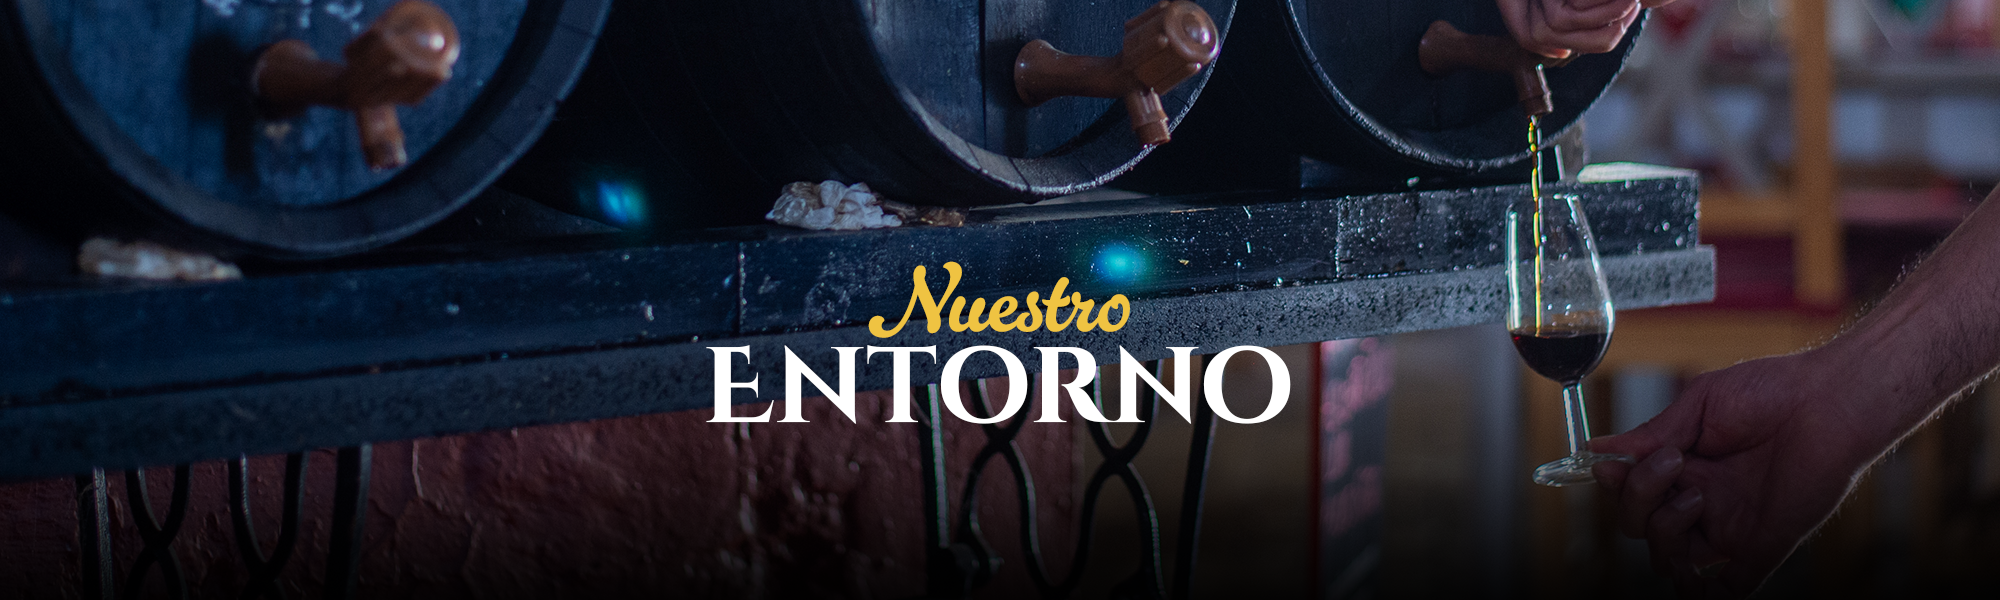
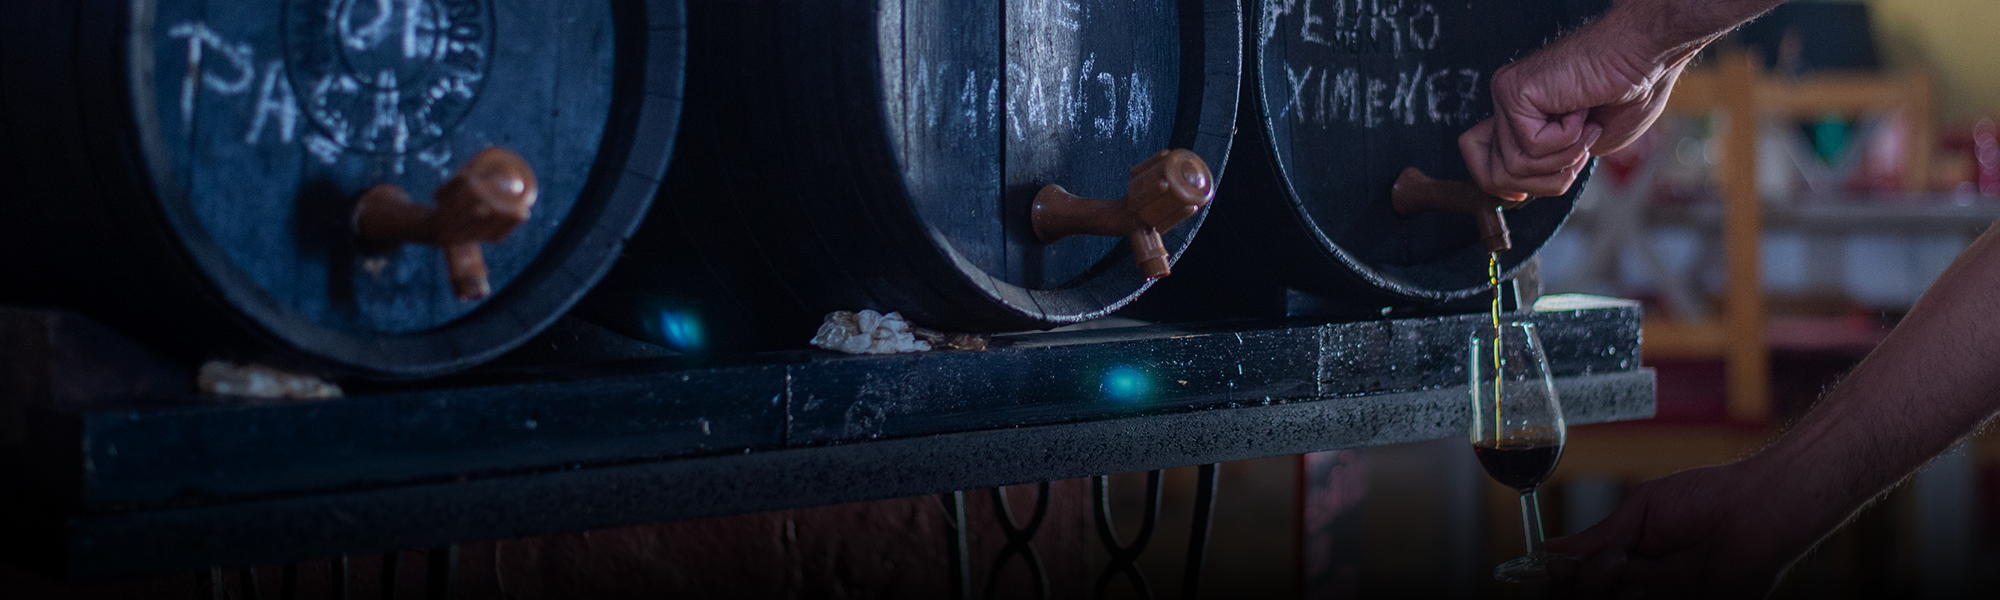
Almost fix location page

diff --git a/src/ubicacion.html b/src/ubicacion.html
@@ -16,20 +16,51 @@
 
   <!--Página Ubicación-->
   <body>
-    <main class="head3"></main>
-    <section class="location">
-      <p class="location__text">La Bodega La Sacristía es un pequeño restaurante de gran tradición culinaria localizado estratégicamente en Almensilla, uno de los pequeños pueblos señalados de la Ruta del Mosto, en la comarca del Aljarafe (Sevilla).</p>
-      <h2 class="location__title">Almensilla</h2>
-      <h2 class="location__title2">El sur del Aljarafe</h2>
-      <p class="location__text">En Almensilla vas a disfrutar de la esencia de un pueblo andaluz caracterizado por su tradición aceitunera y por sus haciendas. Comienza tu ruta por esta localidad en la Plaza de la Iglesia, donde se ubica el ayuntamiento, que destaca por su reloj con campanario de hierro. En este mismo lugar puedes visitar el templo mayor del pueblo, la iglesia de Ntra. Sra. de la Antigua, de origen mudéjar, que originalmente era el oratorio de la hacienda de San Antonio.</p>
-      <img class="location__img" src="./images/location/location01.png" alt="Iglesia de Almensilla"/>
-      <p class="location__text">Una parada en la que degustar con tranquilidad el mosto, la aceituna de mesa y, en primavera, las tapas de caracoles. Ubicada en una meseta al sur del Aljarafe, este enclave sevillano aún conserva algunas haciendas centenarias concebidas para la recolección de la aceituna y la producción de aceite.</p>
-      <img class="location__img" src="./images/location/location02.png" alt="Iglesia de Almensilla"/>
-      <p class="location__text">Almensilla está 17 km de Sevilla. Ubicada al sur de la comarca del Aljarafe, se encuentra entre Mairena del Aljarafe, Palomares del Río, Coria del Río y Bollullos de la Mitación, limitando con las marismas del coto de Doñana. Abunda el olivar y su término es atravesado por el arroyo Riopudio, restaurado hace pocos años como parque periurbano.</p>
-    </section>
-    <p>Poner aquí con JS un mapa de Google Maps para bodega la sacristia</p>
+    <main class="head3">
+      <div class="head1__overlay"></div>
+      <div class="head1__principal2">
+        <h1 class="principal2__title">Nuestro</h1>
+        <h1 class="principal2__title2">Entorno</h1>
+      </div>
+    </main>
+      <section class="location" data-aos="fade-left">
+        <div class="text-wrapper-location">
+          <p class="location__text">La Bodega La Sacristía es un pequeño restaurante de gran tradición 
+            culinaria, ubicado estratégicamente en Almensilla, un encantador pueblo del Aljarafe 
+            sevillano. Formando parte de la conocida Ruta del Mosto, nuestra bodega es punto de 
+            encuentro para quienes buscan disfrutar de la cocina local, el vino joven y la calidez 
+            de un entorno auténtico y familiar.</p>
+        </div>   
+      </section> 
+      <section class="location" data-aos="fade-right">
+        <div class="text-wrapper-location">
+          <h2 class="location__title">Almensilla</h2>
+          <h2 class="location__title2">El sur del Aljarafe</h2>
+          <p class="location__text">En Almensilla vas a disfrutar de la esencia de un pueblo andaluz caracterizado 
+          por su tradición aceitunera y por sus haciendas. Comienza tu ruta por esta localidad en la Plaza de la 
+          Iglesia, donde se ubica el ayuntamiento, que destaca por su reloj con campanario de hierro. 
+          En este mismo lugar puedes visitar el templo mayor del pueblo, la iglesia de Ntra. Sra. de la Antigua, 
+          de origen mudéjar, que originalmente era el oratorio de la hacienda de San Antonio.</p>
+        </div>
+        <img class="location__img" src="./images/location/location01.png" alt="Iglesia de Almensilla" data-aos="fade-left"/>
+      </section>
+      <section class="location" data-aos="fade-left">
+        <div class="text-wrapper-location">
+          <p class="location__text">Una parada en la que degustar con tranquilidad el mosto, la aceituna de mesa y, 
+          en primavera, las tapas de caracoles. Ubicada en una meseta al sur del Aljarafe, este enclave sevillano 
+          aún conserva algunas haciendas centenarias concebidas para la recolección de la aceituna y la producción 
+          de aceite. Se encuentra entre Mairena del Aljarafe, Palomares del Río, Coria del Río y Bollullos de la Mitación, 
+          limitando con las marismas del coto de Doñana. Abunda el olivar y su término es atravesado por el
+          arroyo Riopudio, restaurado hace pocos años como parque periurbano.</p>
+        </div>
+        <img class="location__img" src="./images/location/location02.png" alt="Iglesia de Almensilla" data-aos="fade-right"/>
+      </section>
+      <section class="location" data-aos="fade-right">
+        <div class="text-wrapper-location">
+          
+        </div>
+      </section>
   </body>
 
   <load src="./partials/layout/footer.html" />
-
 </html>

diff --git a/src/styles/pages/_location.scss b/src/styles/pages/_location.scss
@@ -1,52 +1,160 @@
 .head3 {
+  position: relative;
   width: 100%;
-  height: 30vh;
-  background-image: url("../images/location/header3.png"),
-    linear-gradient(to bottom, rgba(0, 0, 0, 0), #000000);
+  min-height: 40svh;
+  background-image: url("../images/location/header3.png");
   background-size: cover;
-  background-position: 50%;
+  background-position: center;
   background-repeat: no-repeat;
   display: flex;
   justify-content: center;
   align-items: center;
+  text-align: center;
+  overflow: hidden;
+  margin-bottom: 2rem;
+
+  @media (min-width: 768px) {
+    min-height: 40svh;
+  }
+
+  @media (min-width: 1200px) {
+    min-height: 45svh;
+  }
+
+  &__overlay {
+    position: absolute;
+    inset: 0;
+    background: linear-gradient(to bottom, rgba(0, 0, 0, 0) 40%, #000000 100%);
+    z-index: 1;
+  }
+
+  &__principal2 {
+    text-align: center;
+    display: flex;
+    flex-direction: column;
+    z-index: 2;
+
+    @media (min-width: 768px) {
+      margin-top: 0.5rem;
+    }
+
+    @media (min-width: 1200px) {
+      margin-top: 0;
+    }
+  }
 }
 
 .location {
   background-color: $background-black;
-  margin: auto;
-  padding: 2rem;
-  font-size: 1rem;
-  line-height: 1.6;
   display: flex;
   justify-content: center;
   align-items: center;
   flex-direction: column;
+  padding: 2rem;
+  font-size: 1rem;
+  line-height: 1.6;
+  text-align: center;
+  margin-bottom: 3rem;
 
-  &__text {
-    font-family: $fontfamily-main;
-    font-weight: 200;
-    color: white;
-    margin-block: 1rem;
+  @media (min-width: 768px) {
+    padding-inline: 0;
+  }
+
+  @media (min-width: 1200px) {
+    flex-direction: row !important;
+    align-items: center;
+    padding: 1rem;
+  }
+
+  &:nth-child(even) {
+    @media (min-width: 1200px) {
+      flex-direction: row-reverse;
+      text-align: right;
+    }
   }
 
   &__title {
     font-family: $fontfamily-subtitle;
     font-weight: 600;
-    font-size: 2.5rem;
+    font-size: 2.2rem;
     color: $third-color;
+    margin-top: -1rem;
+
+    @media (min-width: 768px) {
+      font-size: 2.5rem;
+    }
+
+    @media (min-width: 1200px) {
+      width: 90%;
+    }
   }
 
   &__title2 {
     font-family: $fontfamily-title;
     font-weight: 600;
-    font-size: 1.7rem;
+    font-size: 2.3rem;
+    margin-top: -0.5rem;
+    line-height: 1;
     color: white;
-    margin-top: -1.3rem;
+
+    @media (min-width: 768px) {
+      font-size: 2.5rem;
+    }
+
+    @media (min-width: 1200px) {
+      font-size: 2.8rem;
+      margin-bottom: 1.8rem;
+    }
+  }
+
+  &__text {
+    font-family: $fontfamily-main;
+    font-weight: 200;
+    color: white;
+    font-size: 1rem;
+    line-height: 1.5;
+    margin-top: 1rem;
+
+    @media (min-width: 768px) {
+      font-size: 1.1rem;
+      margin-block: 1.5rem;
+      padding-inline: 0;
+      width: 70%;
+    }
+
+    @media (min-width: 1200px) {
+      font-size: 1.3rem;
+      line-height: 1.5;
+      margin-top: 1.2rem;
+      padding-inline: 0;
+      width: 80%;
+    }
   }
 
   &__img {
-    height: 100%;
+    height: auto;
     margin-top: 2rem;
     width: 100%;
+
+    @media (min-width: 768px) {
+      width: 50%;
+    }
+
+    @media (min-width: 1200px) {
+      width: 35%;
+    }
+  }
+}
+
+.text-wrapper-location {
+  display: flex;
+  flex-direction: column;
+  justify-content: center;
+  align-items: center;
+  width: 100%;
+  text-align: center;
+
+  @media (min-width: 1200px) {
+    width: 50%;
   }
 }

diff --git a/src/styles/pages/_menu.scss b/src/styles/pages/_menu.scss
@@ -20,6 +20,13 @@
   @media (min-width: 1200px) {
     min-height: 45svh;
   }
+
+  &__overlay {
+    position: absolute;
+    inset: 0;
+    background: linear-gradient(to bottom, rgba(0, 0, 0, 0) 40%, #000000 100%);
+    z-index: 1;
+  }
 }
 
 .menu2 {
@@ -42,11 +49,11 @@
 
     @media (min-width: 768px) {
       font-size: 42px;
-    }    
+    }
 
     @media (min-width: 1200px) {
       font-size: 52px;
-    }   
+    }
   }
 
   &__title2 {
@@ -59,7 +66,7 @@
 
     @media (min-width: 768px) {
       font-size: 42px;
-    }   
+    }
 
     @media (min-width: 1200px) {
       font-size: 52px;
@@ -79,7 +86,7 @@
 
     @media (min-width: 768px) {
       font-size: 18px;
-    }    
+    }
   }
 
   &__link {
@@ -90,7 +97,7 @@
 
 .slider {
   width: 100%;
-  overflow: hidden; 
+  overflow: hidden;
   margin: auto;
   position: relative;
   background-color: $background-black;
@@ -100,7 +107,7 @@
     width: 65%;
   }
 
-   @media (min-width: 1200px) {
+  @media (min-width: 1200px) {
     width: 50%;
   }
 }

diff --git a/src/eventos.html b/src/eventos.html
@@ -1,0 +1,17 @@
+<!DOCTYPE html>
+<html lang="es">
+  <head>
+    <meta charset="UTF-8">
+    <meta name="viewport" content="width=device-width, initial-scale=1.0">
+    <title>Bodega La Sacristía</title>
+    <link rel="preconnect" href="https://fonts.googleapis.com">
+    <link rel="preconnect" href="https://fonts.gstatic.com" crossorigin>
+    <link href="https://fonts.googleapis.com/css2?family=Cinzel+Decorative:wght@400;700;900&family=Lavishly+Yours&family=Lexend:wght@100..900&display=swap" rel="stylesheet">
+    <script src="https://kit.fontawesome.com/dad595353d.js" crossorigin="anonymous"></script>
+    <link rel="stylesheet" href="./styles/main.scss" />
+    <link rel="icon" href="./images/favicon.png" />
+    </head>
+
+  <load src="./partials/layout/header.html" />
+  
+  <!--Página Nuestra historia-->

diff --git a/src/partials/layout/header.html b/src/partials/layout/header.html
@@ -14,6 +14,7 @@
         <li><a href="index.html">Inicio</a></li>
         <li><a href="nosotros.html">Nosotros</a></li>
         <li><a href="menu.html">Menú</a></li>
+        <li><a href="eventos.html">Eventos</a></li>
         <li><a href="ubicacion.html">Ubicación</a></li>
         <li><a href="contacto.html">Contacto</a></li>
       </ul>
